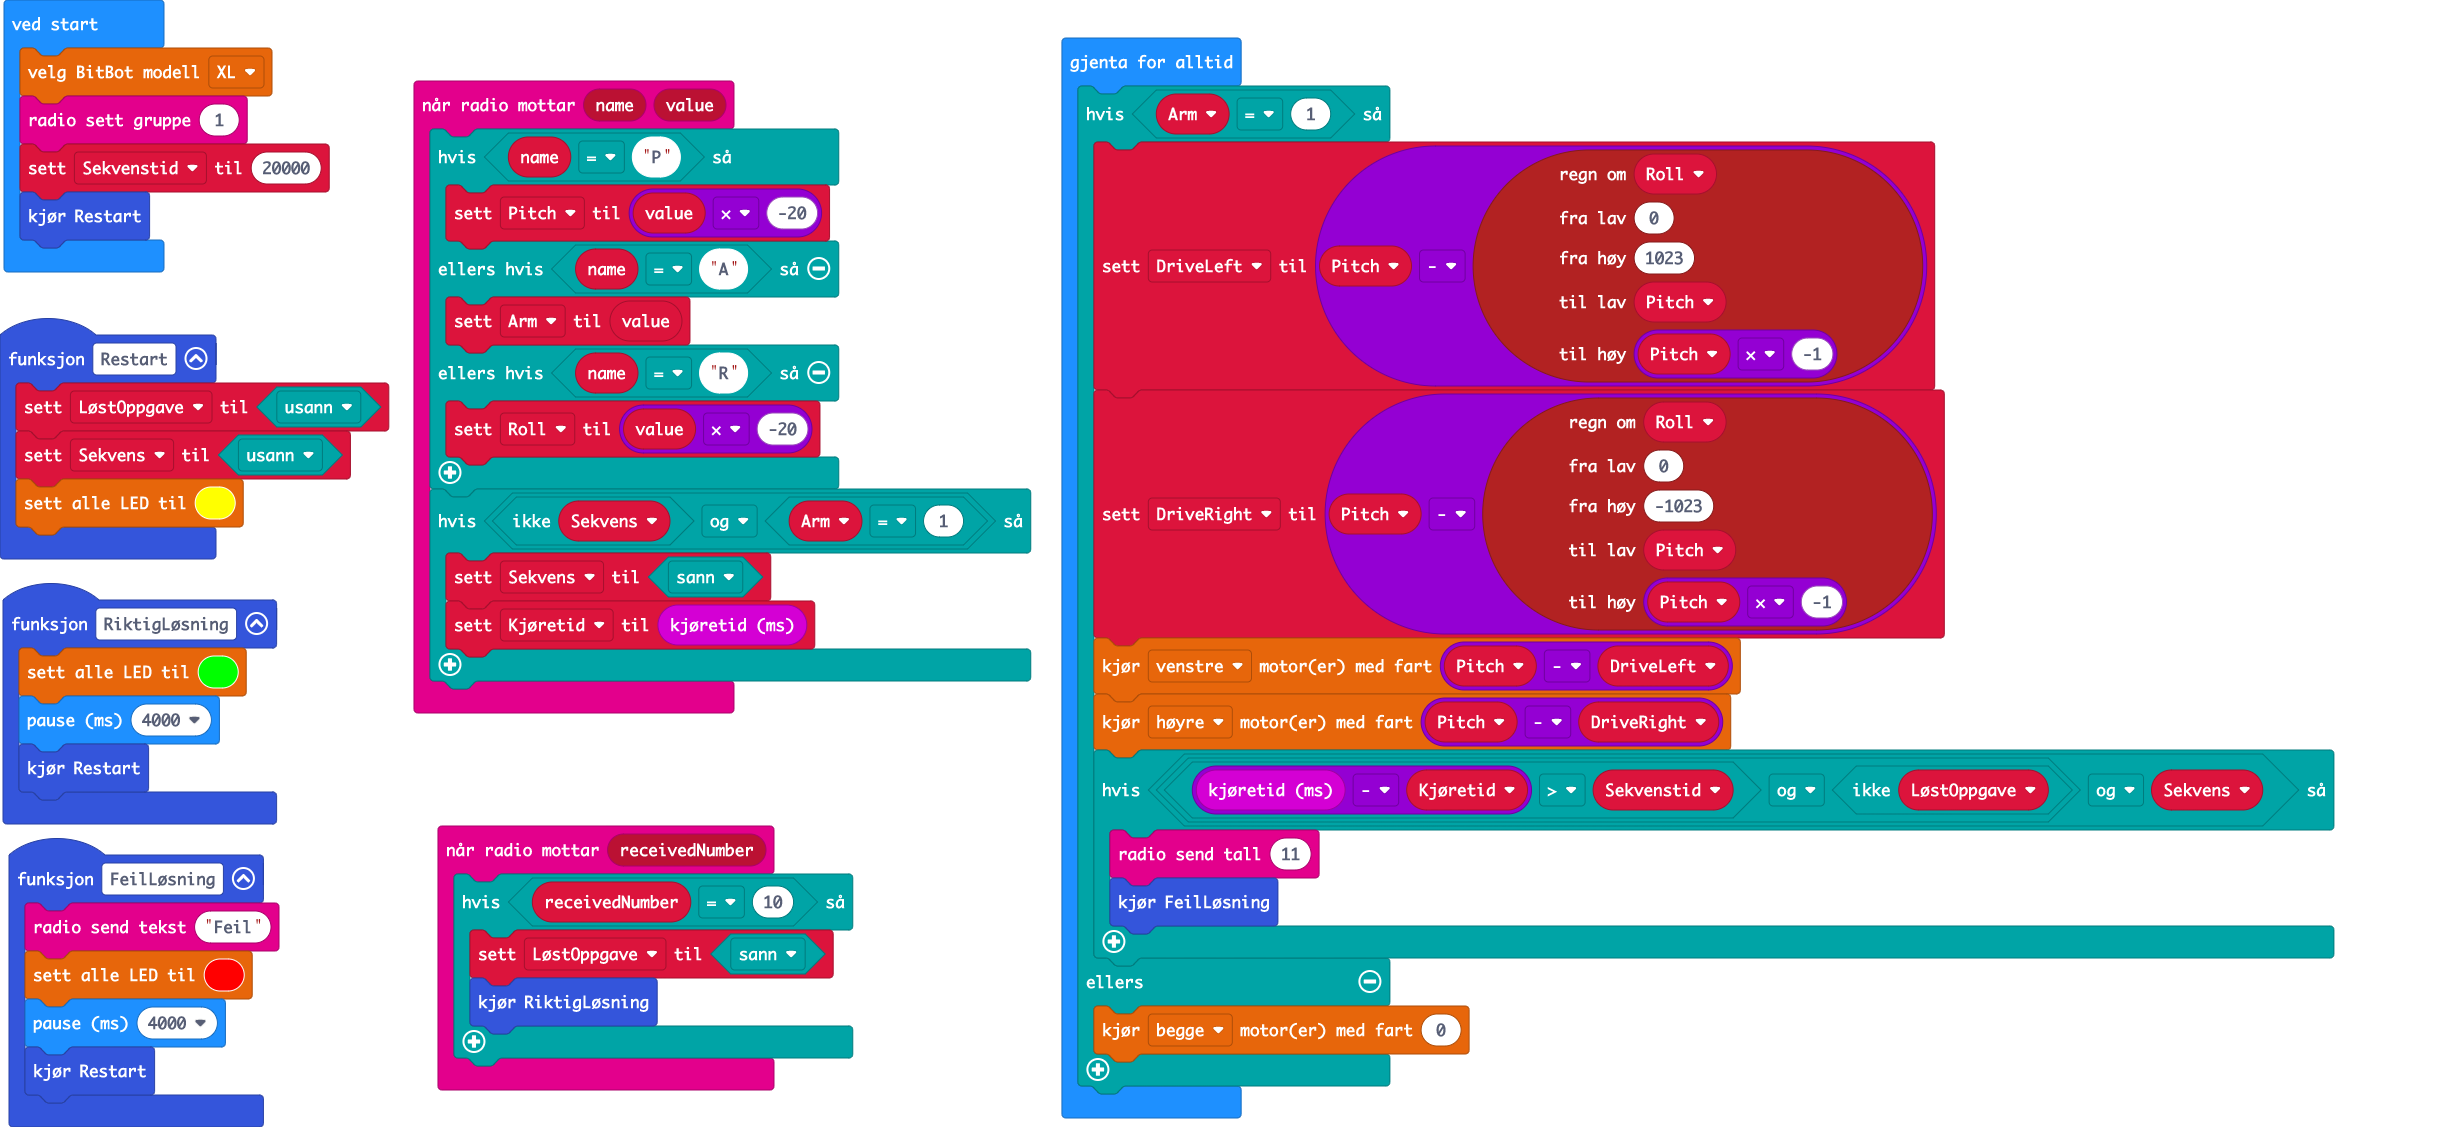
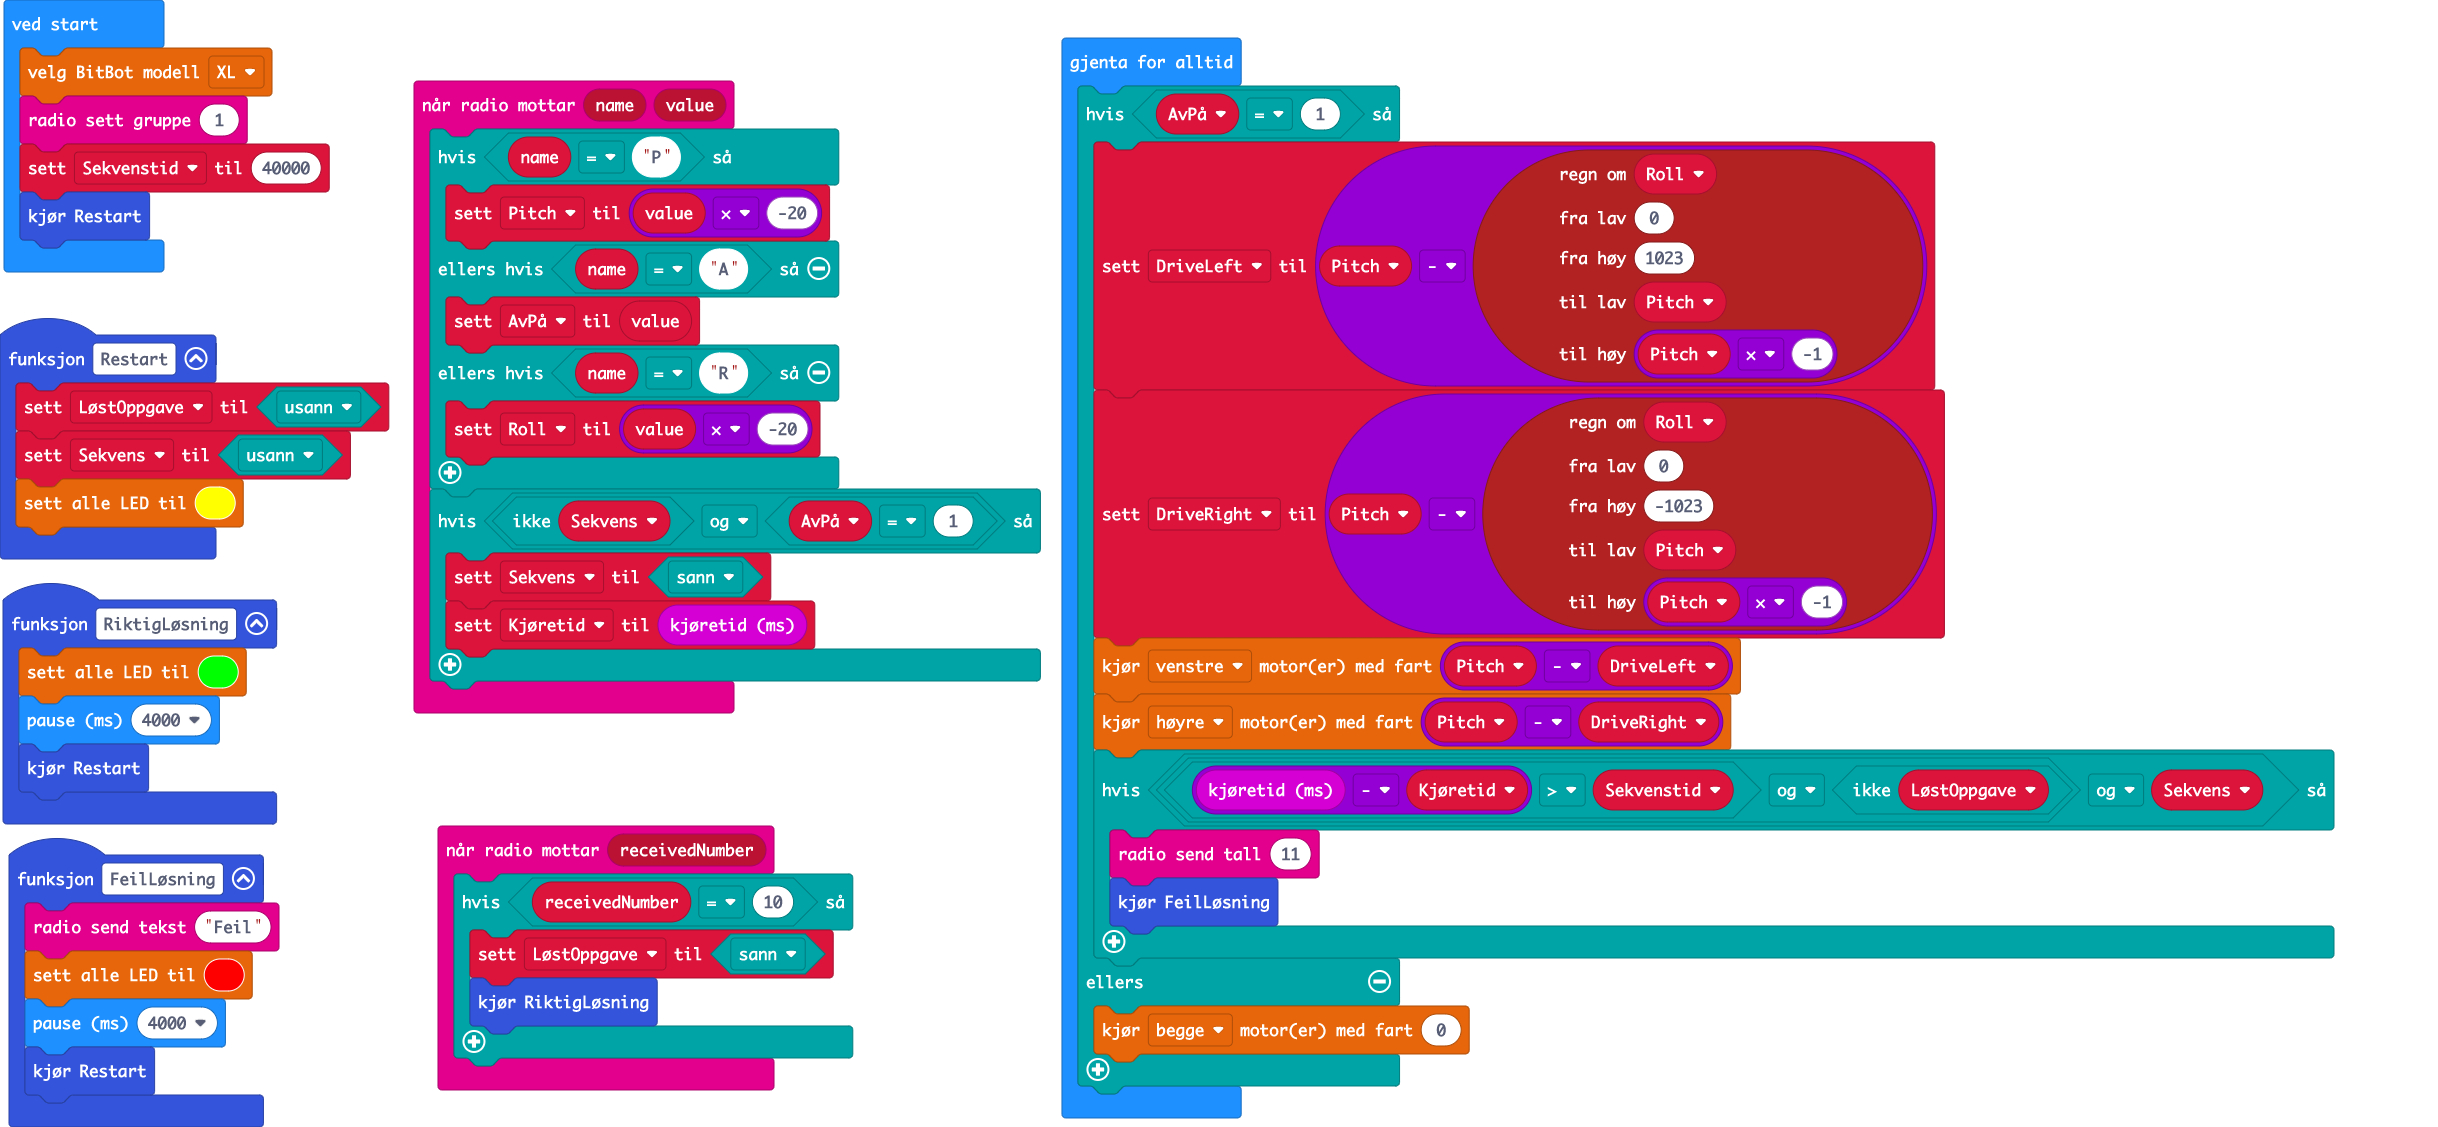
Oppdater pxt.json, main.blocks, main.ts

diff --git a/main.ts b/main.ts
@@ -24,11 +24,11 @@ radio.onReceivedValue(function (name, value) {
     if (name == "P") {
         Pitch = value * -20
     } else if (name == "A") {
-        Arm = value
+        AvPå = value
     } else if (name == "R") {
         Roll = value * -20
     }
-    if (!(Sekvens) && Arm == 1) {
+    if (!(Sekvens) && AvPå == 1) {
         Sekvens = true
         Kjøretid = input.runningTime()
     }
@@ -37,16 +37,16 @@ let DriveRight = 0
 let DriveLeft = 0
 let Kjøretid = 0
 let Roll = 0
-let Arm = 0
+let AvPå = 0
 let Pitch = 0
 let Sekvens = false
 let LøstOppgave = false
 bitbot.select_model(BBModel.XL)
 radio.setGroup(1)
-let Sekvenstid = 20000
+let Sekvenstid = 40000
 Restart()
 basic.forever(function () {
-    if (Arm == 1) {
+    if (AvPå == 1) {
         DriveLeft = Pitch - pins.map(
         Roll,
         0,
